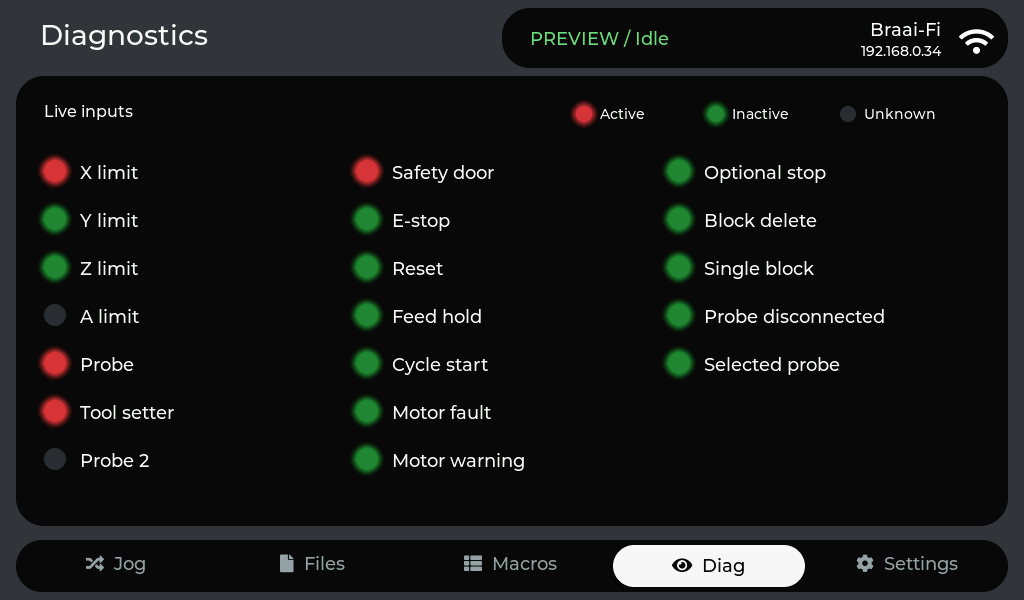
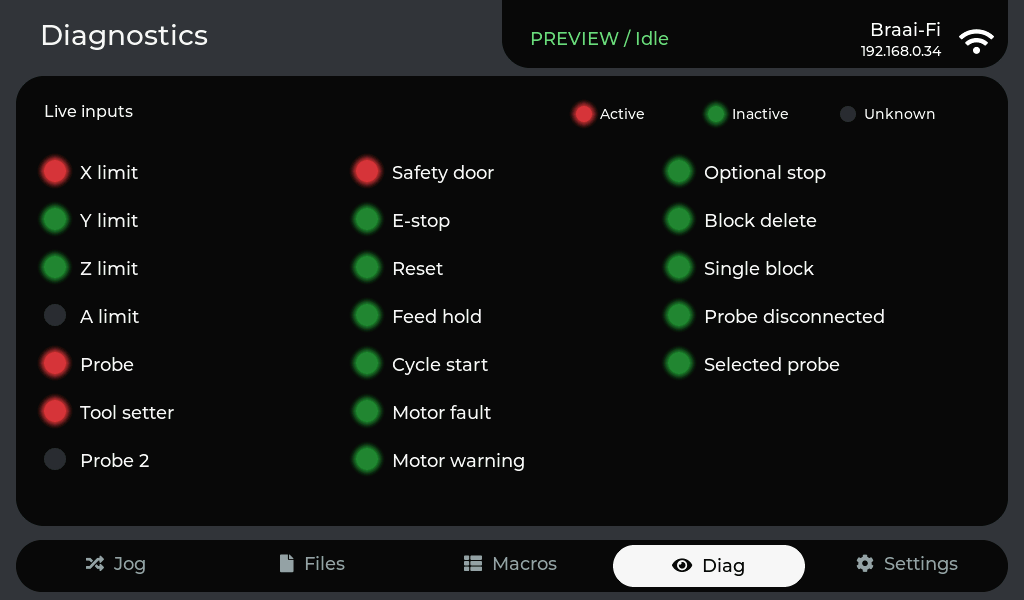
Attach shared status and Wi-Fi header to top bezel

Changed region(s): [[0.4688, 0.0, 1.0, 0.03]]

diff --git a/tools/check-diagnostics.py b/tools/check-diagnostics.py
@@ -58,12 +58,16 @@ try:
     idle()
     original = data()
     assert not original['actuator_mode'] and original['dialog'] == 'none', 'Start in CNC mode without a dialog'
+    tap(900, 4)
+    assert data()['dialog'] == 'other', 'The header must remain tappable at the bezel'
+    tap(916, 92)
+    assert data()['dialog'] == 'none'
     for x, page, name in ((154, 0, 'panel-jog'), (333, 1, 'panel-files'),
                           (512, 3, 'panel-macros'), (870, 2, 'panel-settings')):
         tap(x, 566)
         d = data()
         assert d['page'] == page and d['dialog'] == 'none'
-        assert tuple(d[k] for k in ('header_x', 'header_y', 'header_w', 'header_h')) == (502, 8, 506, 60)
+        assert tuple(d[k] for k in ('header_x', 'header_y', 'header_w', 'header_h')) == (502, -28, 506, 96)
         idle()
         shot(name)
     tap(691, 566)

diff --git a/docs/concepts/design-qa.md b/docs/concepts/design-qa.md
@@ -22,8 +22,9 @@ The font's SIL Open Font License is distributed with the firmware assets.
 
 The left card uses the former brand-header space for 68 px-high per-axis Home/Zero
 targets, 62 px global actions and 60 px Probe/Tools controls. Status and Wi-Fi share
-a black rounded rectangle header card matching the Jogging card, inset 8 px
-from the top and right screen edges. The redundant units label is removed. Home all, XY zero, Z zero,
+a black rounded rectangle header card aligned with the Jogging card. Its upper
+corners extend off-screen so the visible card joins the top bezel, with rounded
+lower corners and the same text positions. The redundant units label is removed. Home all, XY zero, Z zero,
 Zero all, Probe and Tools have matching Font Awesome action icons; labels and
 touch targets are retained.
 

diff --git a/AGENTS.md b/AGENTS.md
@@ -478,3 +478,8 @@ Use tab_pages/tab_for_page instead of page-number comparisons for navigation.
 CNC dock centres are x=116/314/512/710/908 at y=566. Actuator mode hides Files
 and Macros but keeps Diagnostics. Input diagnostics lives on this read-only
 page, not a Settings row or modal. Retain unknown/stale and pin-reporting states.
+
+The shared status/Wi-Fi card is a native rounded rectangle at (502,-28),
+506x96 with radius 28. Its upper corners sit off-screen so it joins the bezel.
+Keep its bottom edge at y=68 and its text/icon at their current visible positions;
+use normal screen clipping, without a canvas or custom raster drawing.

diff --git a/docs/concepts/settings-design-qa.md b/docs/concepts/settings-design-qa.md
@@ -47,7 +47,8 @@ side by side, with the keyboard below.
 ![Dark Settings list](settings-root-rows.png)
 
 The status/Wi-Fi container keeps the same position across the main pages, aligned
-with both edges of the Jogging card. Settings shares the graphite background,
+with both edges of the Jogging card. Its top extends beyond the screen edge,
+joining the bezel while the lower corners stay rounded. Settings shares the graphite background,
 black list, neutral dark buttons and cyan choice controls.
 
 The drawing-buffer experiment is removed. Verification uses the original internal
